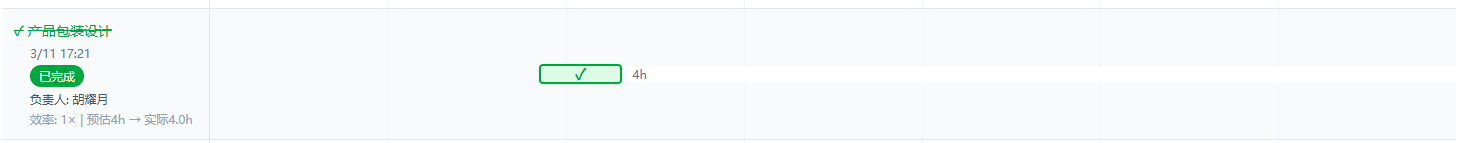
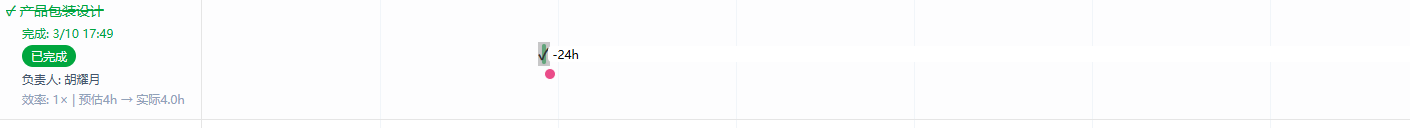
fix(gantt): 已完成任务改用里程碑标记替代柱状图条显示

diff --git a/src/components/gantt-chart.tsx b/src/components/gantt-chart.tsx
@@ -602,43 +602,60 @@ export default function GanttChart({
                               />
                             ))}
 
-                            {/* 任务条 */}
-                            <div
-                              className={`absolute top-1/2 -translate-y-1/2 h-5 rounded shadow-sm cursor-pointer hover:shadow-md transition-all hover:h-6 ${
-                                isCompleted ? 'border-2 border-green-600' : ''
-                              } ${isOverdue ? 'border-2 border-red-600 shadow-lg' : ''}`}
-                              style={{
-                                left: `${position.left}%`,
-                                width: `${Math.max(position.width, 0.3)}%`,
-                                backgroundColor: isCompleted ? '#dcfce7' : (isOverdue ? '#fee2e2' : taskColor)
-                              }}
-                              title={isCompleted && task.actualEndDate 
-                                ? `${task.name}: ${formatDateTime(task.startDate || startDayTime)} - ${formatDateTime(task.actualEndDate)} (实际完成)`
-                                : `${task.name}: ${formatDateTime(task.startDate || startDayTime)} - ${formatDateTime(task.endDate || endDayTime)}${isCompleted ? ' (已完成)' : ''}${isOverdue ? ' (已超期)' : ''}`
-                              }
-                              onClick={() => (isOverdue || isCompleted) && onTaskClick && onTaskClick(task)}
-                            />
-
-                            {/* 完成标记 */}
-                            {isCompleted && (
+                            {/* 任务条 - 已完成任务不显示柱状图 */}
+                            {!isCompleted && (
                               <div
-                                className="absolute top-1/2 -translate-y-1/2 text-green-600 font-bold flex items-center justify-center"
-                                style={{ left: `${position.left}%`, width: `${Math.max(position.width, 0.3)}%` }}
+                                className={`absolute top-1/2 -translate-y-1/2 h-5 rounded shadow-sm cursor-pointer hover:shadow-md transition-all hover:h-6 ${
+                                  isOverdue ? 'border-2 border-red-600 shadow-lg' : ''
+                                }`}
+                                style={{
+                                  left: `${position.left}%`,
+                                  width: `${Math.max(position.width, 0.3)}%`,
+                                  backgroundColor: isOverdue ? '#fee2e2' : taskColor
+                                }}
+                                title={`${task.name}: ${formatDateTime(task.startDate || startDayTime)} - ${formatDateTime(task.endDate || endDayTime)}${isOverdue ? ' (已超期)' : ''}`}
+                                onClick={() => isOverdue && onTaskClick && onTaskClick(task)}
+                              />
+                            )}
+
+                            {/* 已完成任务 - 显示完成里程碑标记 */}
+                            {isCompleted && task.actualEndDate && (
+                              <div
+                                className="absolute top-1/2 -translate-y-1/2 cursor-pointer"
+                                style={{ left: `${position.left}%` }}
+                                title={`${task.name}: 实际完成于 ${formatDateTime(task.actualEndDate)}`}
+                                onClick={() => onTaskClick && onTaskClick(task)}
                               >
-                                ✓
+                                <div className="flex items-center gap-1">
+                                  <div className="w-5 h-5 rounded-full bg-green-500 border-2 border-green-600 flex items-center justify-center">
+                                    <span className="text-white text-xs font-bold">✓</span>
+                                  </div>
+                                  <span className="text-xs text-green-600 font-medium whitespace-nowrap">
+                                    {formatDateTime(task.actualEndDate)}
+                                  </span>
+                                </div>
                               </div>
                             )}
 
-                            {/* 工时标记 - 已完成任务显示实际用时 */}
-                            <div
-                              className="absolute top-1/2 -translate-y-1/2 -right-1 text-xs font-medium bg-white dark:bg-slate-900 px-1 rounded ${isCompleted ? 'text-green-600' : 'text-slate-500'}"
-                              style={{ left: `${Math.min(position.left + position.width + 0.5, 95)}%` }}
-                            >
-                              {isCompleted && task.actualEndDate && task.startDate
-                                ? `${Math.round((task.actualEndDate.getTime() - task.startDate.getTime()) / (1000 * 60 * 60))}h`
-                                : `${task.estimatedHours}h`
-                              }
-                            </div>
+                            {/* 工时标记 - 未完成任务显示 */}
+                            {!isCompleted && (
+                              <div
+                                className="absolute top-1/2 -translate-y-1/2 -right-1 text-xs font-medium text-slate-500 bg-white dark:bg-slate-900 px-1 rounded"
+                                style={{ left: `${Math.min(position.left + position.width + 0.5, 95)}%` }}
+                              >
+                                {task.estimatedHours}h
+                              </div>
+                            )}
+
+                            {/* 已完成任务 - 显示实际用时 */}
+                            {isCompleted && task.actualEndDate && task.startDate && (
+                              <div
+                                className="absolute top-1/2 -translate-y-1/2 text-xs font-medium text-green-600 bg-white dark:bg-slate-900 px-1 rounded"
+                                style={{ left: `${Math.min(position.left + 8, 95)}%` }}
+                              >
+                                实际{Math.round((task.actualEndDate.getTime() - task.startDate.getTime()) / (1000 * 60 * 60))}h
+                              </div>
+                            )}
                           </div>
                         </div>
                       );
